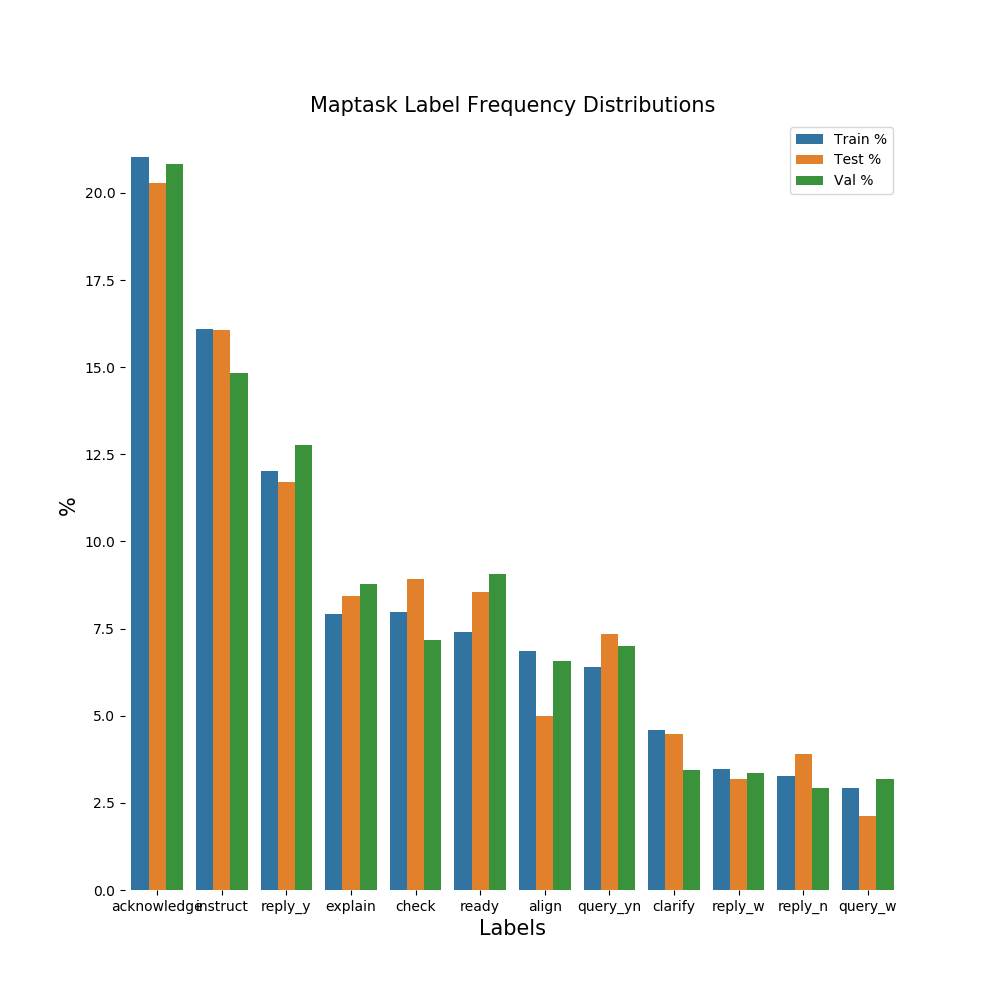
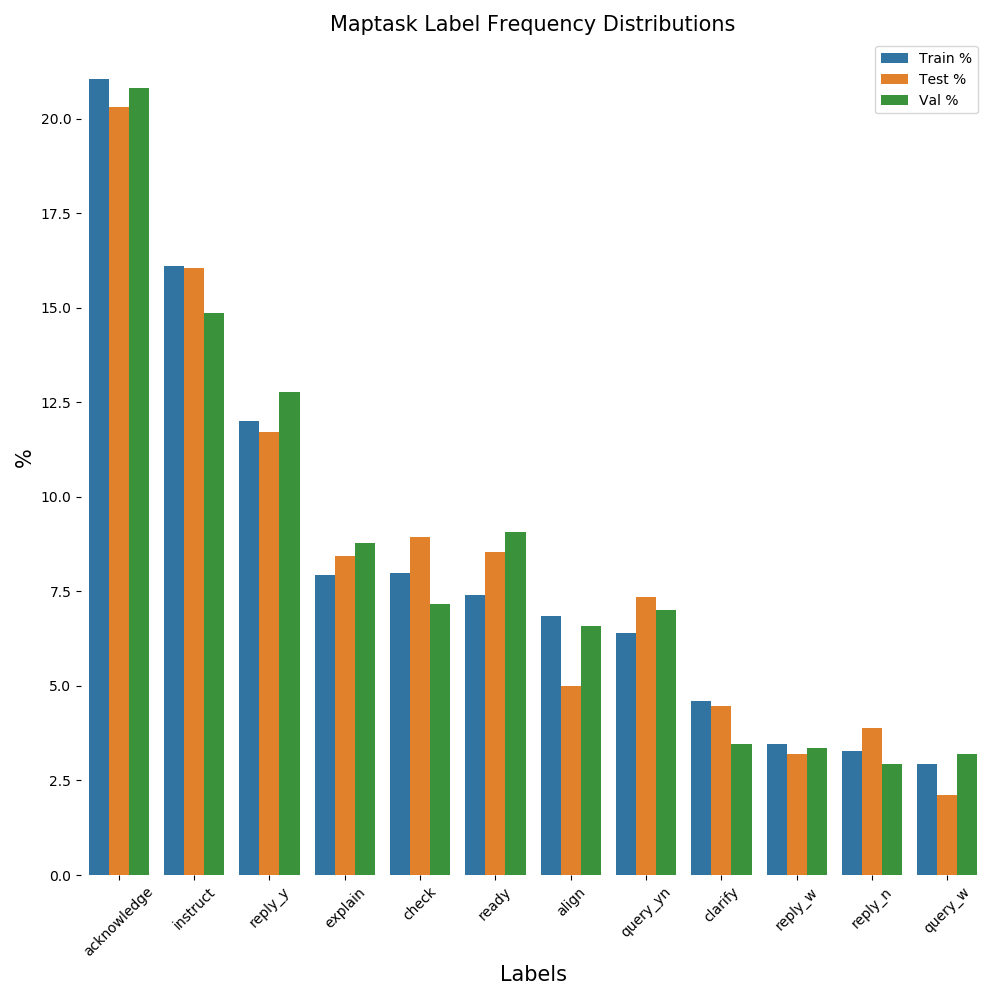
Fix Plot Labels

diff --git a/maptask_utilities.py b/maptask_utilities.py
@@ -178,7 +178,8 @@ def plot_label_distributions(data, num_labels=None, title=None, fig_size=(10, 10
     plt.legend(ncol=1, loc="upper right", frameon=True)
     plt.ylabel('%', fontsize=font_size)
     plt.xlabel('Labels', fontsize=font_size)
+    plt.xticks(rotation=45)
     if title:
         plt.title(title, fontsize=font_size)
-
+    plt.tight_layout()
     return fig
